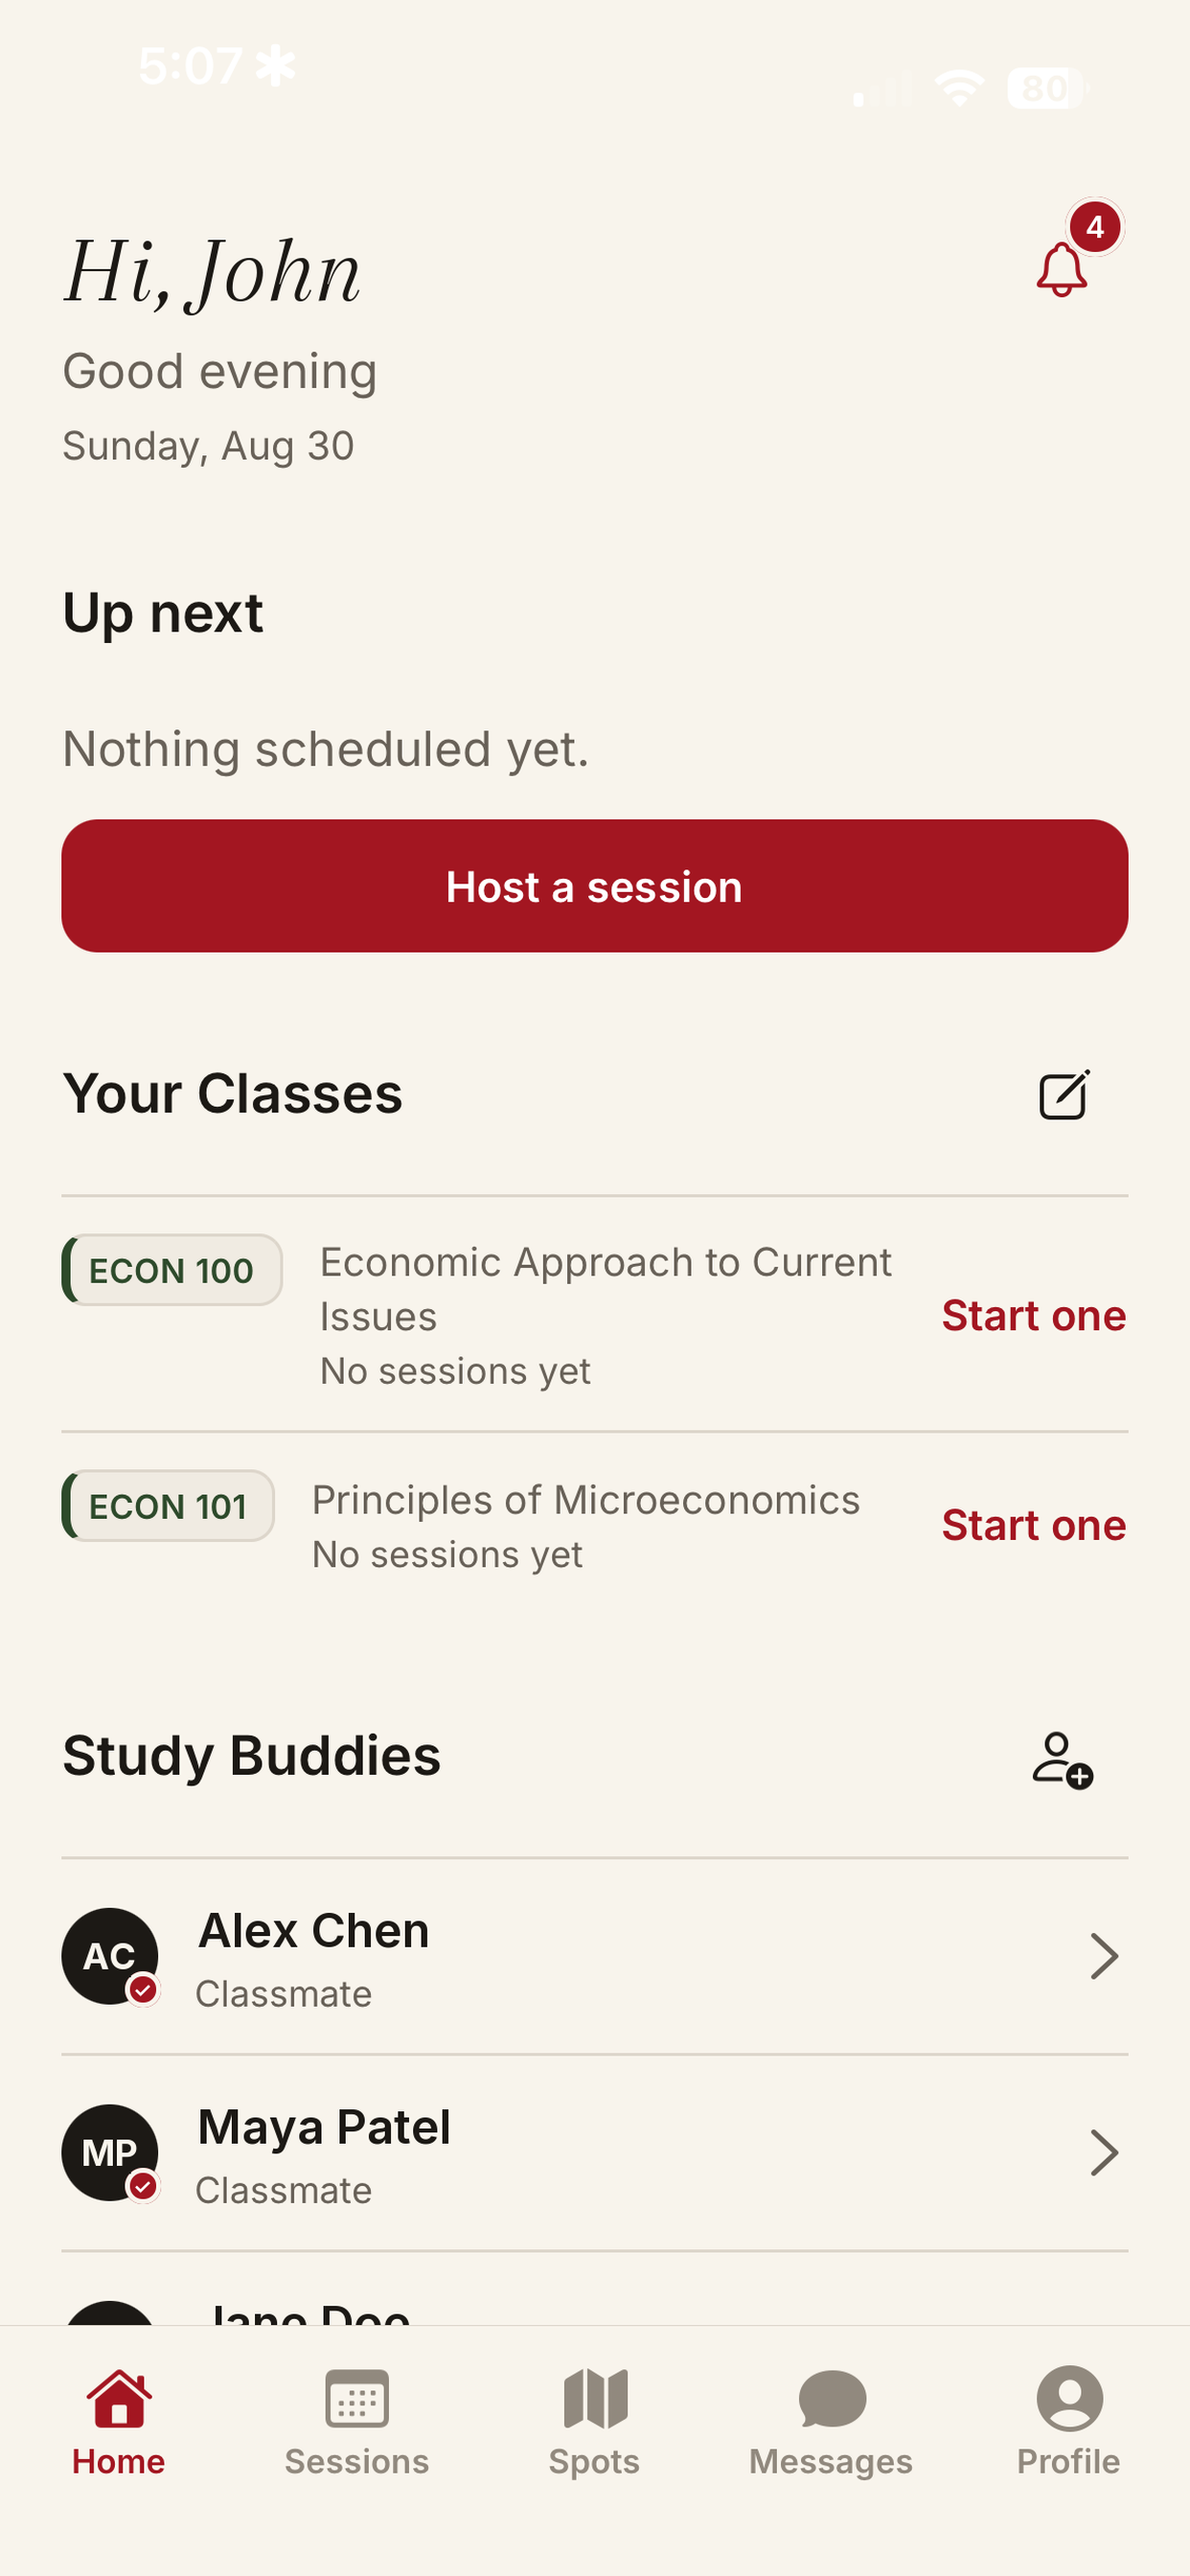
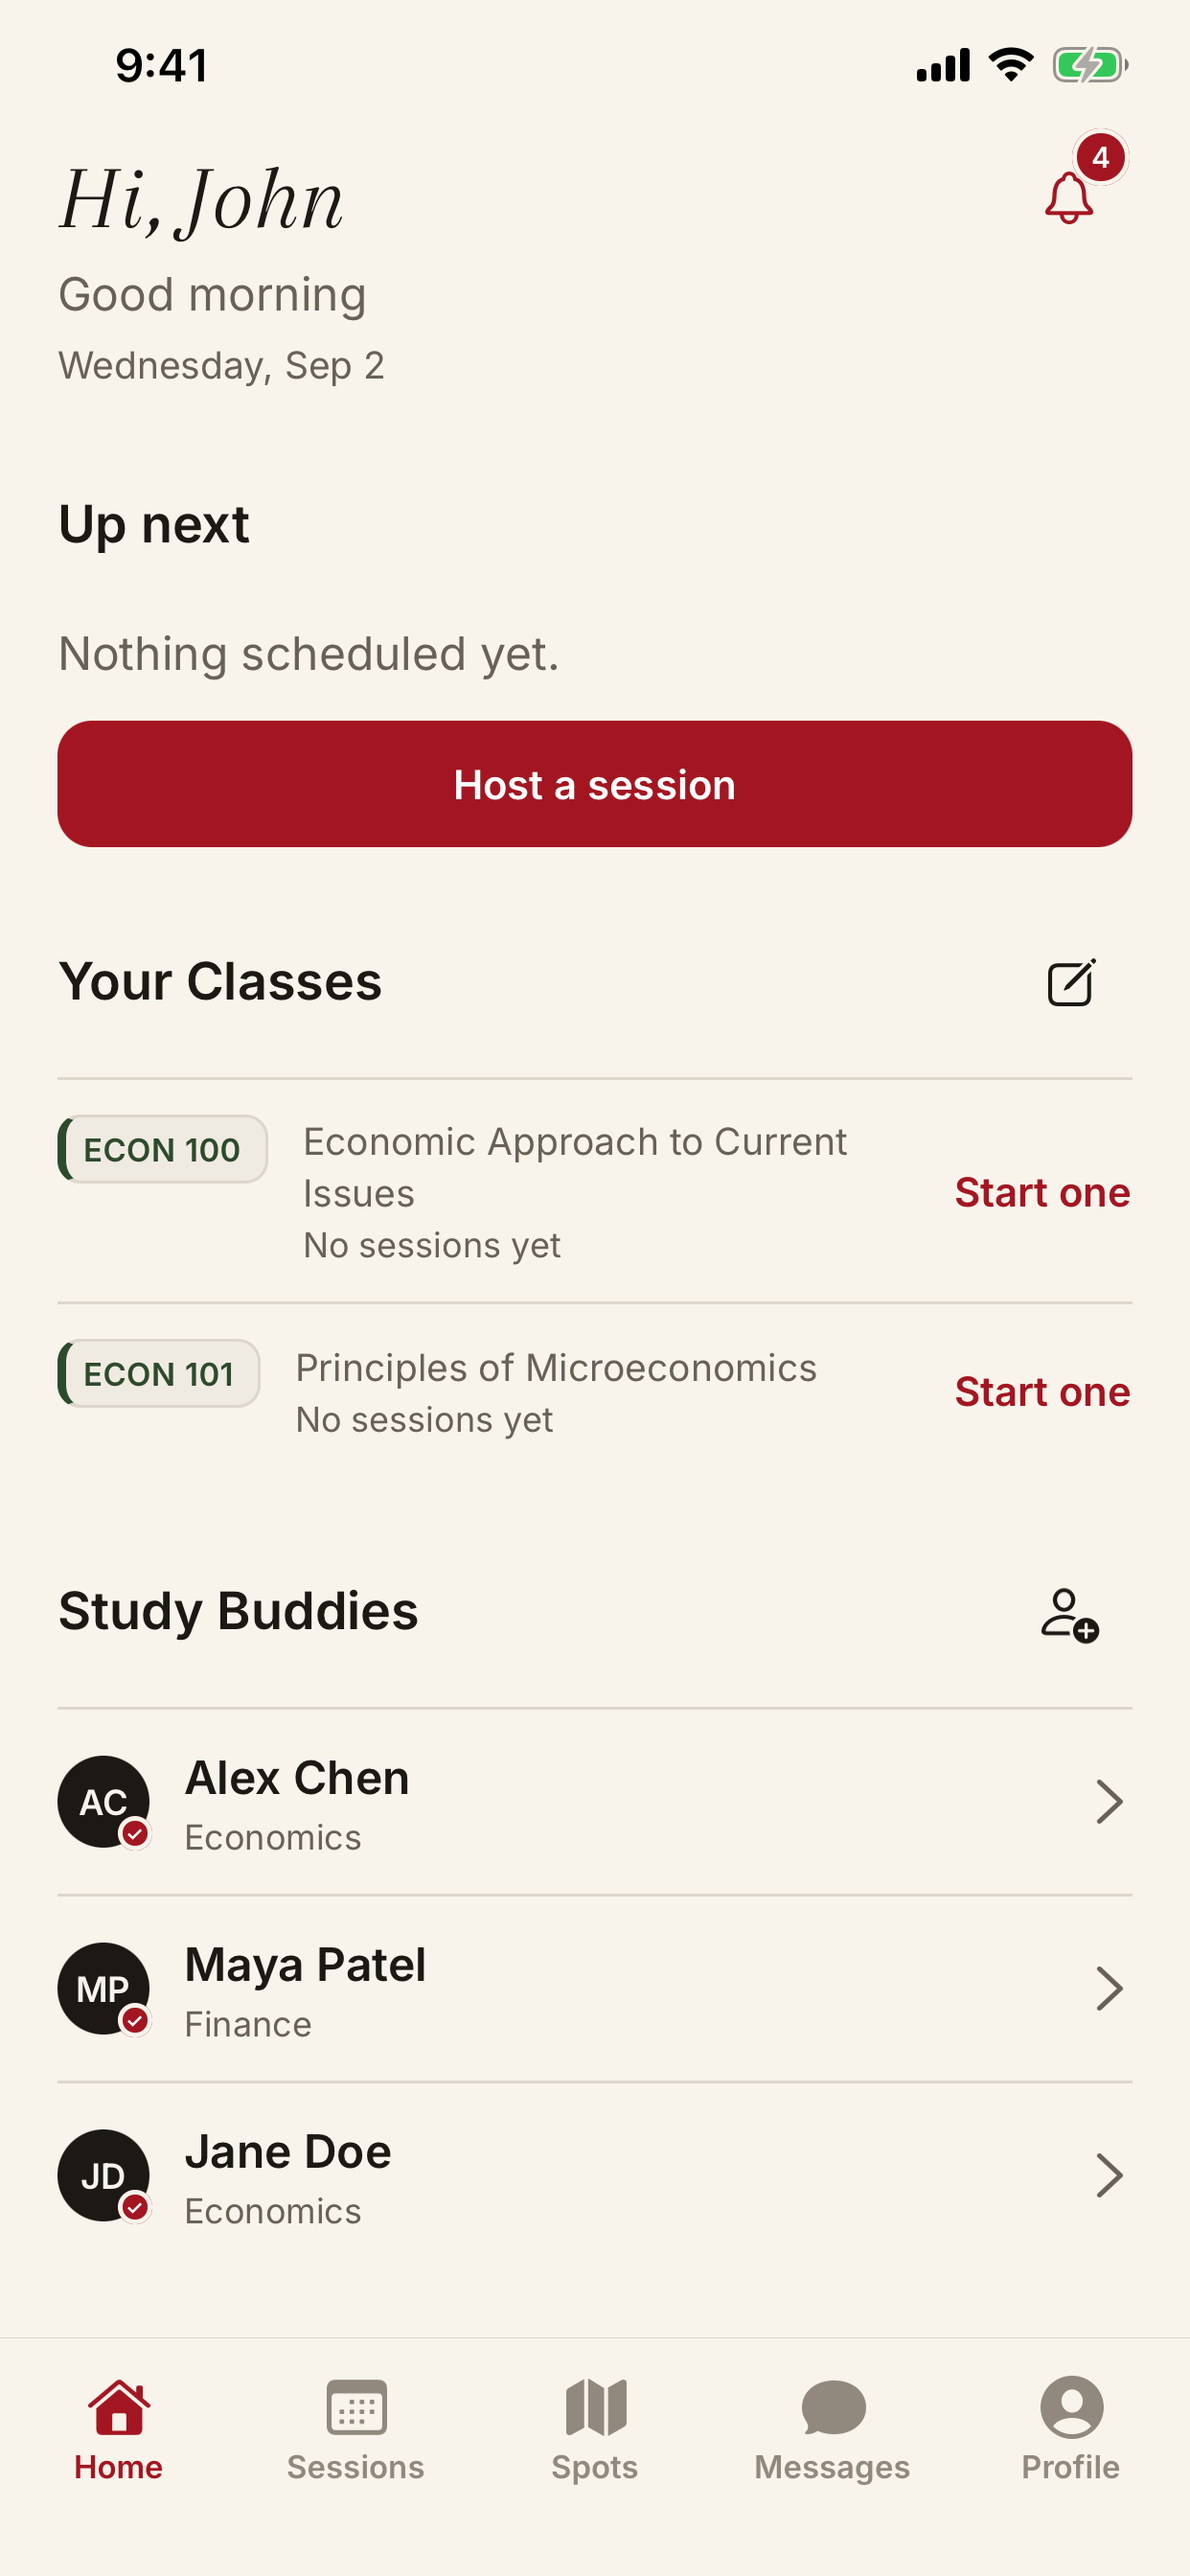
chore: use native App Store screenshots

diff --git a/marketing/app-store-6.5/README.md b/marketing/app-store-6.5/README.md
@@ -1,15 +1,13 @@
-# App Store screenshots — 6.5" (1242×2688)
+# App Store screenshots - 6.5" (1242x2688)
 
-Promotional set for the 6.5" display slot, generated from the anonymised
-captures in `frontend/website/public/screens/`.
+Native iPhone 11 Pro Max simulator captures for the 6.5" App Store display
+slot. The app was built from Build 5 commit
+`9714db92f9f3bf6b72f730a6d71bd272e42a4898` with deterministic anonymized
+local fixture data.
 
-Those sources are 1179×2556 (iPhone 15/16 Pro native), which is a slightly
-narrower aspect than 1242×2688. Each image is widened by 2px — one replicated
-edge column per side, invisible against the flat margins — then rescaled once
-with Lanczos, so no content is cropped.
-
-Regenerating: re-run the resize against the website screens folder after any
-source change, keeping the numbered order below.
+Each PNG was captured directly at 1242x2688 using `xcrun simctl`. The files
+have not been resized, cropped, stretched, upscaled, or edited after capture.
+The separate 1179x2556 website screenshots remain unchanged.
 
 | File | Screen |
 | --- | --- |
@@ -18,6 +16,3 @@ source change, keeping the numbered order below.
 | `03-spots.png` | Spots |
 | `04-messages.png` | Conversation |
 | `05-profile.png` | Profile |
-
-Note: these are upscaled from 1179px-wide sources. For the sharpest result,
-recapture natively on a 6.5" device or simulator (iPhone 11 Pro Max / XS Max).
